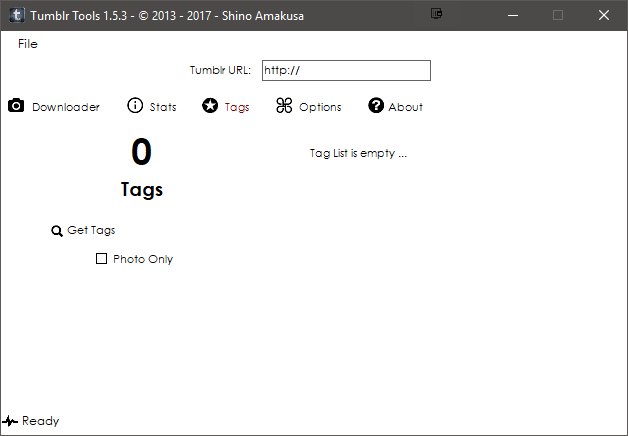
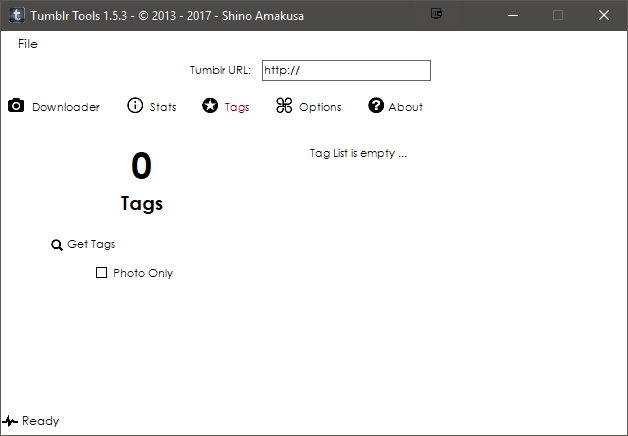
1.5.3: Patch 1

Changed region(s): [[0.0605, 0.5069, 0.2723, 0.656], [0.1815, 0.2982, 0.2723, 0.5069]]

diff --git a/Tumblr Tool UI/Form1.Designer.cs b/Tumblr Tool UI/Form1.Designer.cs
@@ -347,7 +347,7 @@ namespace Tumblr_Tool
             this.tabControl_Main.ItemSize = new System.Drawing.Size(0, 26);
             this.tabControl_Main.Location = new System.Drawing.Point(0, 57);
             this.tabControl_Main.Name = "tabControl_Main";
-            this.tabControl_Main.SelectedIndex = 1;
+            this.tabControl_Main.SelectedIndex = 2;
             this.tabControl_Main.Size = new System.Drawing.Size(625, 256);
             this.tabControl_Main.TabBorderColor = System.Drawing.Color.Transparent;
             this.tabControl_Main.TabGradient.ColorEnd = System.Drawing.Color.Transparent;
@@ -952,7 +952,7 @@ namespace Tumblr_Tool
             // check_Tags_PhotoOnly
             // 
             this.check_Tags_PhotoOnly.FlatStyle = System.Windows.Forms.FlatStyle.Flat;
-            this.check_Tags_PhotoOnly.Location = new System.Drawing.Point(94, 129);
+            this.check_Tags_PhotoOnly.Location = new System.Drawing.Point(94, 143);
             this.check_Tags_PhotoOnly.Name = "check_Tags_PhotoOnly";
             this.check_Tags_PhotoOnly.Size = new System.Drawing.Size(85, 20);
             this.check_Tags_PhotoOnly.TabIndex = 10;
@@ -998,7 +998,7 @@ namespace Tumblr_Tool
             // lbl_TagScanner_TagCount
             // 
             this.lbl_TagScanner_TagCount.Font = new System.Drawing.Font("Century Gothic", 27.75F, System.Drawing.FontStyle.Bold, System.Drawing.GraphicsUnit.Point, ((byte)(0)));
-            this.lbl_TagScanner_TagCount.Location = new System.Drawing.Point(47, 8);
+            this.lbl_TagScanner_TagCount.Location = new System.Drawing.Point(47, 22);
             this.lbl_TagScanner_TagCount.Name = "lbl_TagScanner_TagCount";
             this.lbl_TagScanner_TagCount.Size = new System.Drawing.Size(189, 46);
             this.lbl_TagScanner_TagCount.TabIndex = 7;
@@ -1008,7 +1008,7 @@ namespace Tumblr_Tool
             // lbl_TagScanner_NumberOfTags
             // 
             this.lbl_TagScanner_NumberOfTags.Font = new System.Drawing.Font("Century Gothic", 14.25F, System.Drawing.FontStyle.Bold, System.Drawing.GraphicsUnit.Point, ((byte)(0)));
-            this.lbl_TagScanner_NumberOfTags.Location = new System.Drawing.Point(47, 54);
+            this.lbl_TagScanner_NumberOfTags.Location = new System.Drawing.Point(47, 68);
             this.lbl_TagScanner_NumberOfTags.Name = "lbl_TagScanner_NumberOfTags";
             this.lbl_TagScanner_NumberOfTags.Size = new System.Drawing.Size(189, 29);
             this.lbl_TagScanner_NumberOfTags.TabIndex = 6;
@@ -1021,7 +1021,7 @@ namespace Tumblr_Tool
             this.btn_TagScanner_Stop.FlatStyle = System.Windows.Forms.FlatStyle.Flat;
             this.btn_TagScanner_Stop.ImageKey = "browse.ico";
             this.btn_TagScanner_Stop.ImageList = this.iconsList;
-            this.btn_TagScanner_Stop.Location = new System.Drawing.Point(147, 97);
+            this.btn_TagScanner_Stop.Location = new System.Drawing.Point(147, 111);
             this.btn_TagScanner_Stop.Name = "btn_TagScanner_Stop";
             this.btn_TagScanner_Stop.Size = new System.Drawing.Size(92, 26);
             this.btn_TagScanner_Stop.TabIndex = 5;
@@ -1038,7 +1038,7 @@ namespace Tumblr_Tool
             this.btn_TagScanner_Start.FlatStyle = System.Windows.Forms.FlatStyle.Flat;
             this.btn_TagScanner_Start.ImageKey = "browse.ico";
             this.btn_TagScanner_Start.ImageList = this.iconsList;
-            this.btn_TagScanner_Start.Location = new System.Drawing.Point(39, 97);
+            this.btn_TagScanner_Start.Location = new System.Drawing.Point(39, 111);
             this.btn_TagScanner_Start.Name = "btn_TagScanner_Start";
             this.btn_TagScanner_Start.Size = new System.Drawing.Size(92, 26);
             this.btn_TagScanner_Start.TabIndex = 3;

diff --git a/Tumblr Tool UI/Form1.cs b/Tumblr Tool UI/Form1.cs
@@ -52,7 +52,7 @@ namespace Tumblr_Tool
         private const string ResultSuccess = " success";
         private const string StatusCheckConnx = "Checking connection ...";
         private const string StatusDone = "Done";
-        private const string StatusDownloadConnecting = "Downloading: ...";
+        private const string StatusDownloadConnecting = "...";
         private const string StatusDownloadingFormat = "Downloading: {0}";
         private const string StatusError = "Error";
         private const string StatusGettingInfo = "Getting blog info ...";
